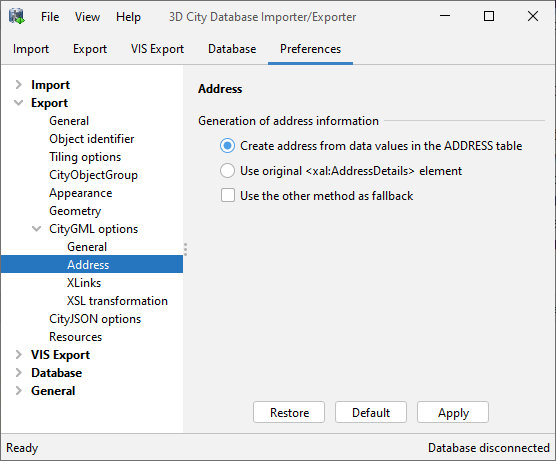
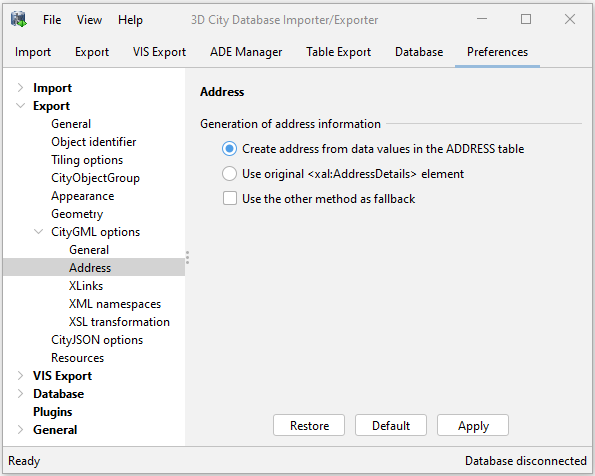
updated docs for impexp 5.4

Changed region(s): [[0.0, 0.0, 1.0, 1.0], [0.3363, 0.1822, 0.4281, 0.2126]]

diff --git a/source/impexp/export-preferences/general.rst b/source/impexp/export-preferences/general.rst
@@ -43,19 +43,27 @@ printed to the log and also used to render a progress bar for the export operati
 computing this number can take a long time on large databases. Thus, this option can be disabled
 so that the export process starts immediately instead.
 
+For every city object in the database, a bounding box can be stored in the
+ENVELOPE column of the CITYOBJECT table. However, when exporting data, only the
+bounding boxes of *top-level objects* [1] are written to the dataset by default.
+You can change this default behaviour and choose to export bounding boxes *for all
+objects* or even to *not export object bounding boxes* at all instead.
+
 As described in :numref:`impexp_citygml_export_chapter`, the export operation
 supports using compressed output formats like GZIP and ZIP, which helps to keep file
 sizes small. You can choose whether *CityGML* (default) or *CityJSON* shall
 be used as data encoding for compressed formats using the drop-down list offered by this
 preferences dialog [1].
 
-**Bounding box options**
+**Dataset metadata**
 
-For every city object in the database, a bounding box can be stored in the
-ENVELOPE column of the CITYOBJECT table. However, when exporting data, only the
-bounding boxes of *top-level objects* [2] are written to the dataset by default.
-You can change this default behaviour and choose to export bounding boxes *for all
-objects* or even to *not export object bounding boxes* at all instead.
+The metadata attributes ``name`` and ``description`` of the output datasets can be specified as free text or using
+tokens, which are described in the section (:numref:`impexp_preferences_export_tiling_chapter`) in details.
+The following rules of using the tokens are applied:
+
+* ``row/column``: If tiling is enabled, row and column are taken from the active tile. Otherwise both are set to 0.
+* ``minx/miny/maxx/maxy``: If the option is enabled to calculate the bounding box for the entire dataset, the values
+  are taken from this bounding box. Otherwise, they are set to 0.0.
 
 In addition, a bounding box embracing all top-level features in the output file can be
 written to the dataset. Simply enable the corresponding option shown in

diff --git a/source/impexp/export-preferences/xml-namespaces.rst b/source/impexp/export-preferences/xml-namespaces.rst
@@ -1,0 +1,22 @@
+.. _impexp_export_preferences_xml_namespaces_chapter:
+
+XML Namespaces
+^^^^^^^^^^^^^^
+
+.. note::
+  These preference settings only apply to CityGML exports.
+
+
+The *XML Namespaces* preference settings allows users to customize the XML namespaces
+that are declared in the root ``<CityModel>`` element when exporting to CityGML.
+
+.. figure:: /media/impexp_export_preferences_namespaces_fig.png
+   :name: impexp_export_preferences_xlinks_fig
+   :align: center
+
+   Export preferences – XML Namespaces.
+
+By clicking the ``+`` and ``-`` buttons, more than one XML namespace can be configured for the exporter. The target
+namespace, its location, as well as its prefix can either be selected from a dropdown list containing the default values, or
+explicitly declared in the corresponding input fields. Each namespace declaration can also be skipped or forcibly applied
+by clicking on the ``↷`` or ``!``.

diff --git a/source/impexp/export-preferences/index.rst b/source/impexp/export-preferences/index.rst
@@ -18,6 +18,7 @@ preference settings that are presented in this chapter.
    citygml-general
    address
    xlinks
+   xml-namespaces
    xsl-transformation
    cityjson
    resources
